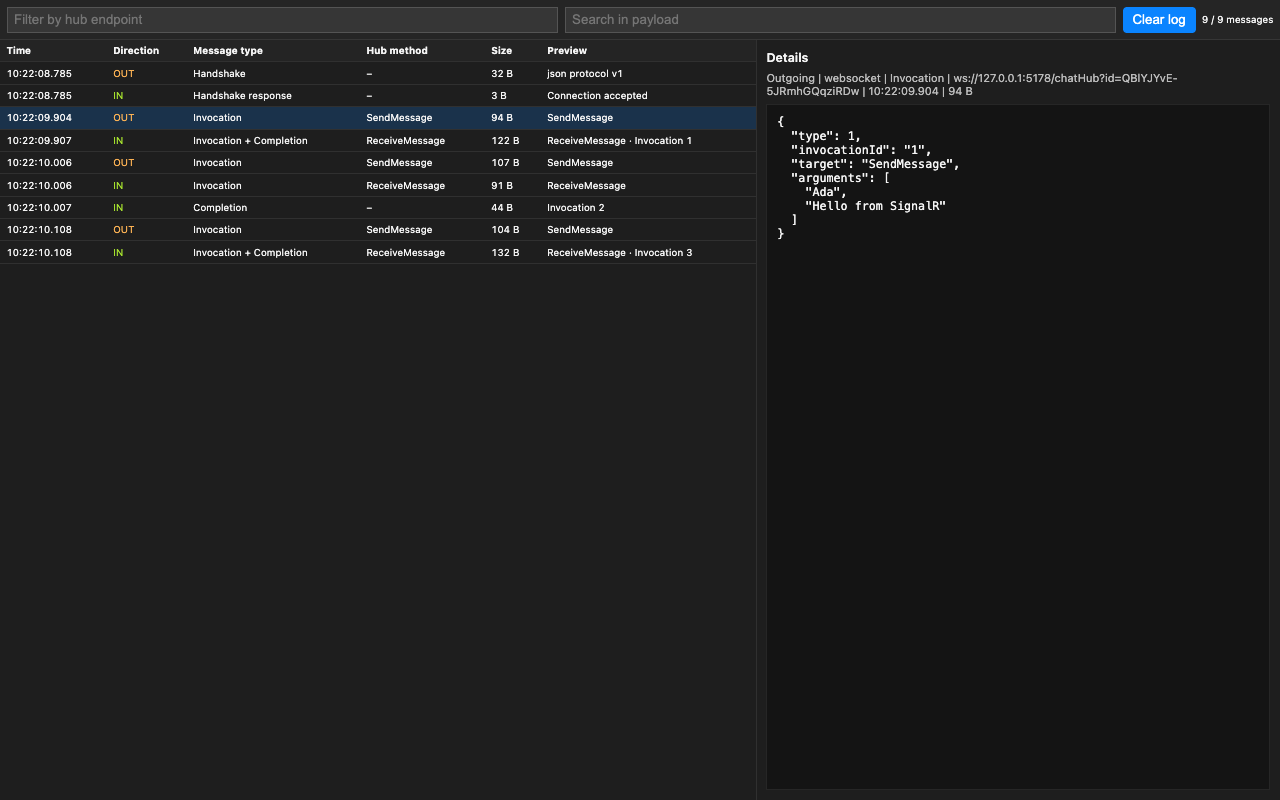
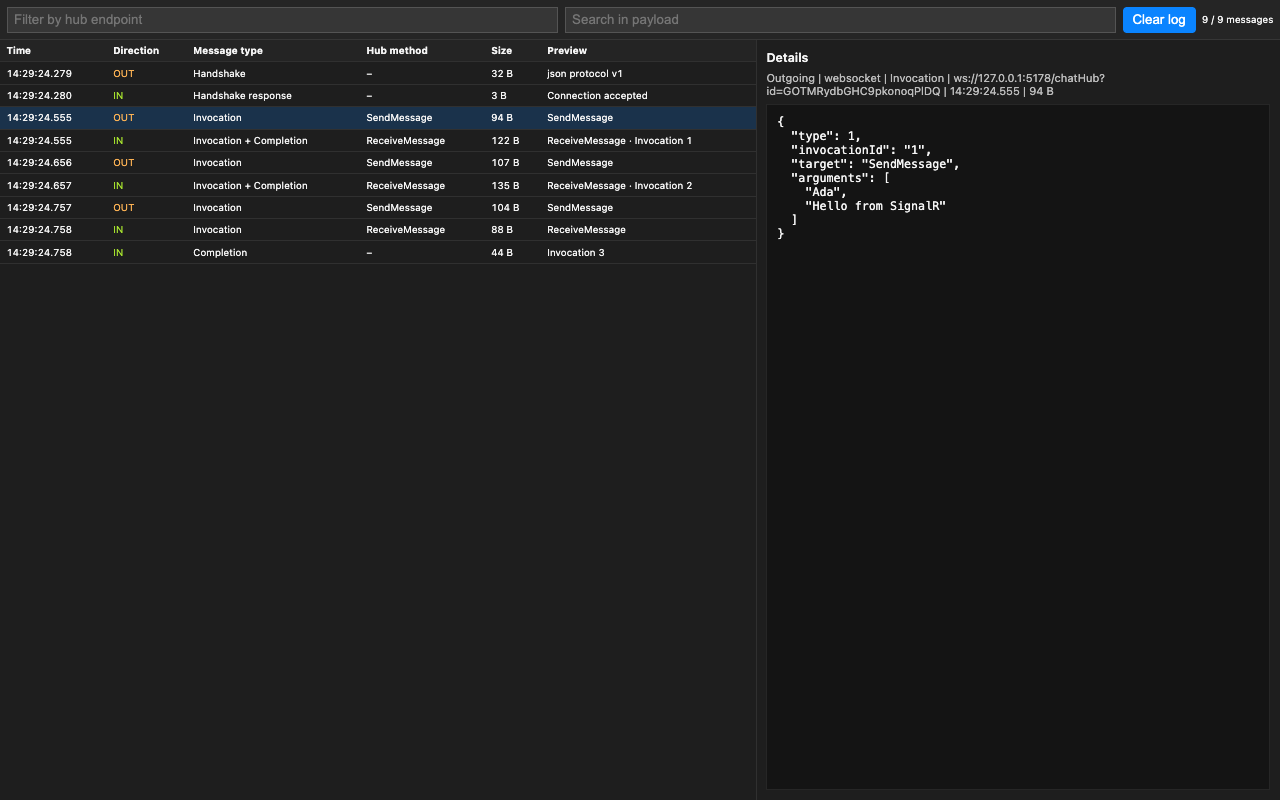
release: prepare SignalR Inspector 0.4.0

diff --git a/samples/SignalR.Sample/wwwroot/index.html b/samples/SignalR.Sample/wwwroot/index.html
@@ -11,8 +11,9 @@
       <p class="eyebrow">SignalR Inspector demo</p>
       <h1>Send a message through an ASP.NET Core SignalR hub.</h1>
       <p>
-        Keep Chrome DevTools open on the <strong>SignalR Inspector</strong> panel to see the
-        handshake, invocation, completion, and broadcast frames.
+        Click the SignalR Inspector toolbar icon once, then keep Chrome DevTools open on the
+        <strong>SignalR Inspector</strong> panel to see the handshake, invocation, completion, and
+        broadcast frames.
       </p>
 
       <form id="messageForm">

diff --git a/signalr-inspector/tests/manifest.test.js b/signalr-inspector/tests/manifest.test.js
@@ -9,7 +9,7 @@ describe('manifest.json', () => {
     expect(manifest.manifest_version).toBe(3);
     expect(manifest.name).toBe('SignalR Inspector');
     expect(manifest.author).toBe('Jakub Grzywaczewski');
-    expect(manifest.version).toBe('0.3.0');
+    expect(manifest.version).toBe('0.4.0');
     expect(Number(manifest.minimum_chrome_version)).toBeGreaterThanOrEqual(111);
   });
 

diff --git a/CHANGELOG.md b/CHANGELOG.md
@@ -4,10 +4,25 @@ All notable changes will be documented in this file.
 
 ## [Unreleased]
 
+## [0.4.0] - 2026-07-27
+
+### Added
+
+- Explicit per-tab activation with a toolbar action and visible success or failure badge.
+- Tests for activation URL matching, dynamic script registration, and permission minimization.
+
 ### Changed
 
 - Replace persistent `<all_urls>` access with explicit per-tab activation using `activeTab` and
   dynamically registered `document_start` instrumentation.
+- Reload the activated tab automatically so SignalR handshakes are captured before application
+  scripts run.
+- Update the usage, privacy, sample, and Chrome Web Store documentation for the new activation
+  flow.
+
+### Removed
+
+- Broad host permissions and always-on content scripts for every website.
 
 ## [0.3.0] - 2026-07-27
 

diff --git a/samples/SignalR.Sample/README.md b/samples/SignalR.Sample/README.md
@@ -10,4 +10,6 @@ Run it from the repository root:
 dotnet run --project samples/SignalR.Sample
 ```
 
-Open the URL printed by ASP.NET Core, then open Chrome DevTools and select **SignalR Inspector**.
+Open the URL printed by ASP.NET Core, click the SignalR Inspector toolbar icon to activate it for
+that tab, then open Chrome DevTools and select **SignalR Inspector**. The activation reloads the
+page once so the extension can capture the SignalR handshake.
